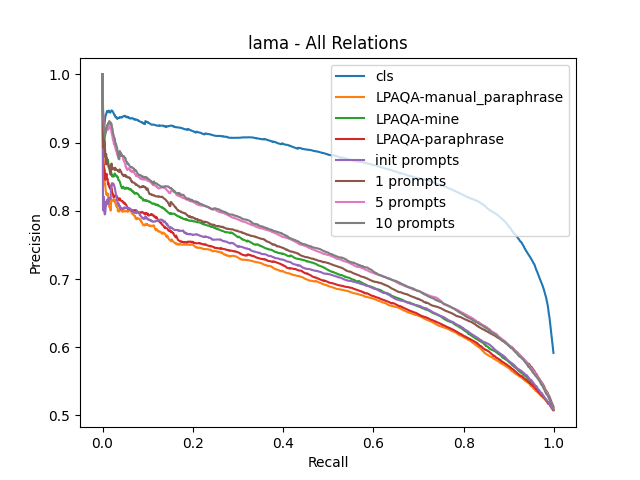
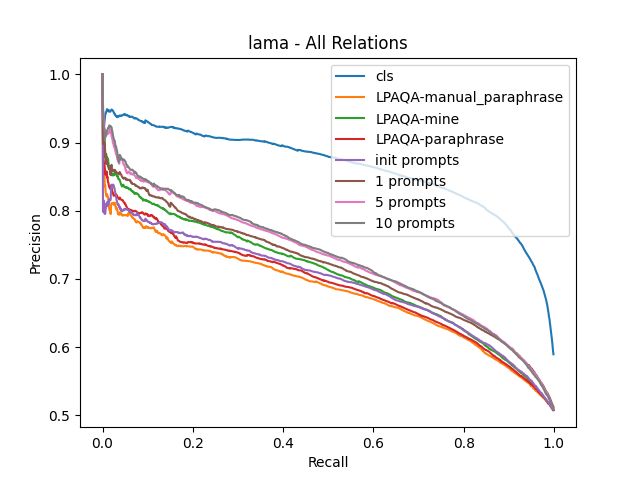
update scoring with bert

diff --git a/models/entity_tuple_searcher.py b/models/entity_tuple_searcher.py
@@ -172,7 +172,7 @@ class EntityTupleSearcher:
 
             return
 
-        mask_state = None
+        mask_logits = None
         for raw_prompt, weight in weighted_prompts:
             prompt = raw_prompt.replace(
                 f'<ENT{ent_idx}>',
@@ -186,26 +186,30 @@ class EntityTupleSearcher:
                 input_text, return_tensors="pt").to('cuda')  # single sentence
 
             with torch.no_grad():
-                outputs = self._model.encoder(**inputs)
-
+                # outputs = self._model.encoder(**inputs)
+                outputs = self._model._model(**inputs) # 1, 16, 50265
             # sequence_output = outputs.last_hidden_state[
             #     inputs['input_ids'] == self._model.mask_token_id]
+            # 1, 16, 1024 / 1, 16
             
+            sequence_logits = outputs.logits[
+                inputs['input_ids'] == self._model.mask_token_id]
 
             # n_mask (2) * embedding_dim (1024)
             mask_idx_in_prompt = get_mask_index_in_prompt(
-                ent_idx=ent_idx, n_masks=n_masks, prompt=raw_prompt)
-            if mask_state is None:
-                mask_state = torch.zeros_like(
-                    sequence_output[mask_idx_in_prompt])
-            mask_state = \
-                mask_state + sequence_output[mask_idx_in_prompt] * weight
+                ent_idx=ent_idx, n_masks=n_masks, prompt=raw_prompt)  # 1
+            if mask_logits is None:
+                mask_logits = torch.zeros_like(
+                    sequence_logits[mask_idx_in_prompt])
+            mask_logits = \
+                mask_logits + sequence_logits[mask_idx_in_prompt] * weight
 
-        mask_state = mask_state / sum(weight for _, weight in weighted_prompts)
+        mask_logits = mask_logits / sum(weight for _, weight in weighted_prompts)
 
-        logits = self._model.lm_head(mask_state.reshape(1, -1))
-        logits[::, self._model.banned_ids] = -float('inf')
-        logprobs = torch.log_softmax(logits, dim=-1)[0]
+        assert len(mask_logits.shape) == 1
+        # logits = self._model.lm_head(mask_state.reshape(1, -1))
+        mask_logits[self._model.banned_ids] = -float('inf')
+        logprobs = torch.log_softmax(mask_logits, dim=-1)
         logprobs, pred_ids = torch.sort(logprobs, descending=True)
 
         for logprob, pred_id in zip(logprobs, pred_ids):

diff --git a/main.py b/main.py
@@ -14,7 +14,7 @@ def main(rel_set='conceptnet',
          n_seed_tuples=5,
          use_init_prompts=False):
     knowledge_harvester = KnowledgeHarvester(
-        model_name='roberta-large',
+        model_name='distilbert-base-uncased',
         max_n_ent_tuples=n_tuples,
         max_n_prompts=n_prompts,
         max_ent_repeat=max_ent_repeat,
